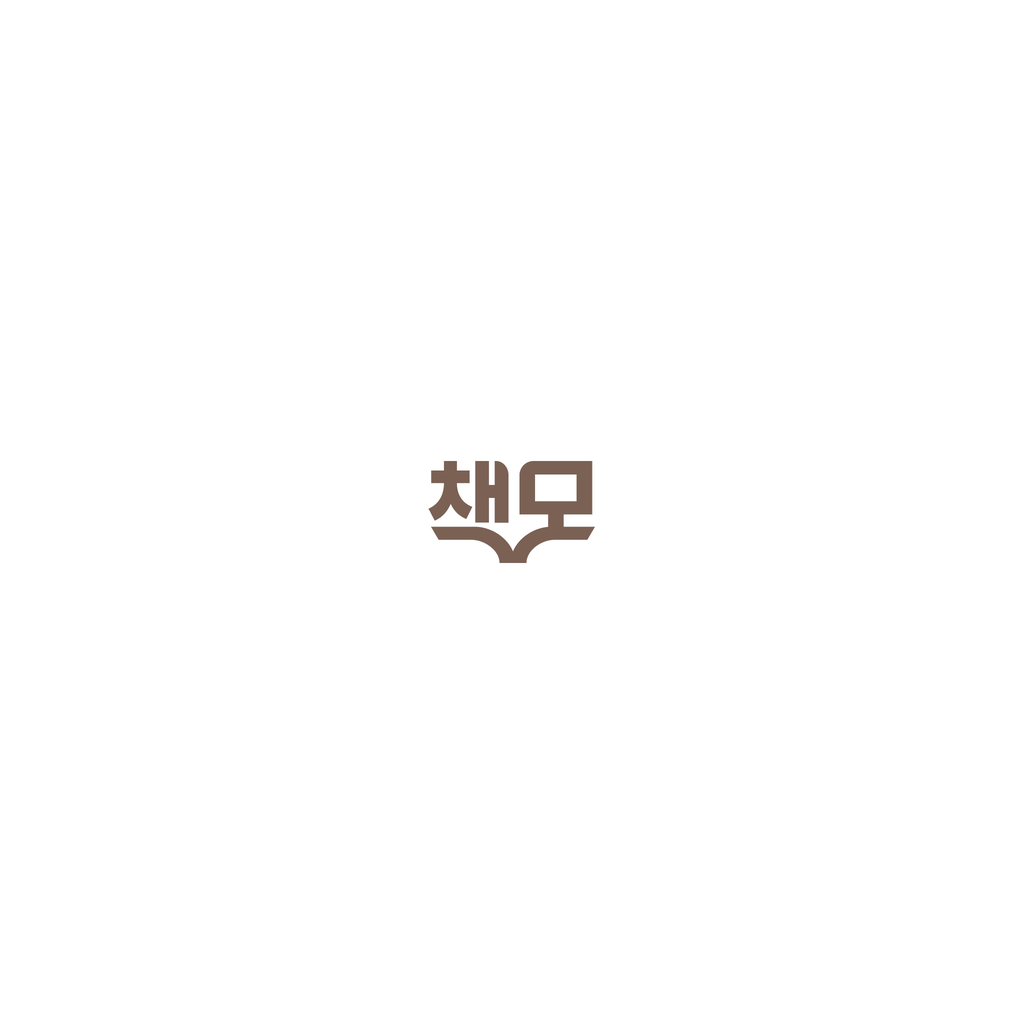
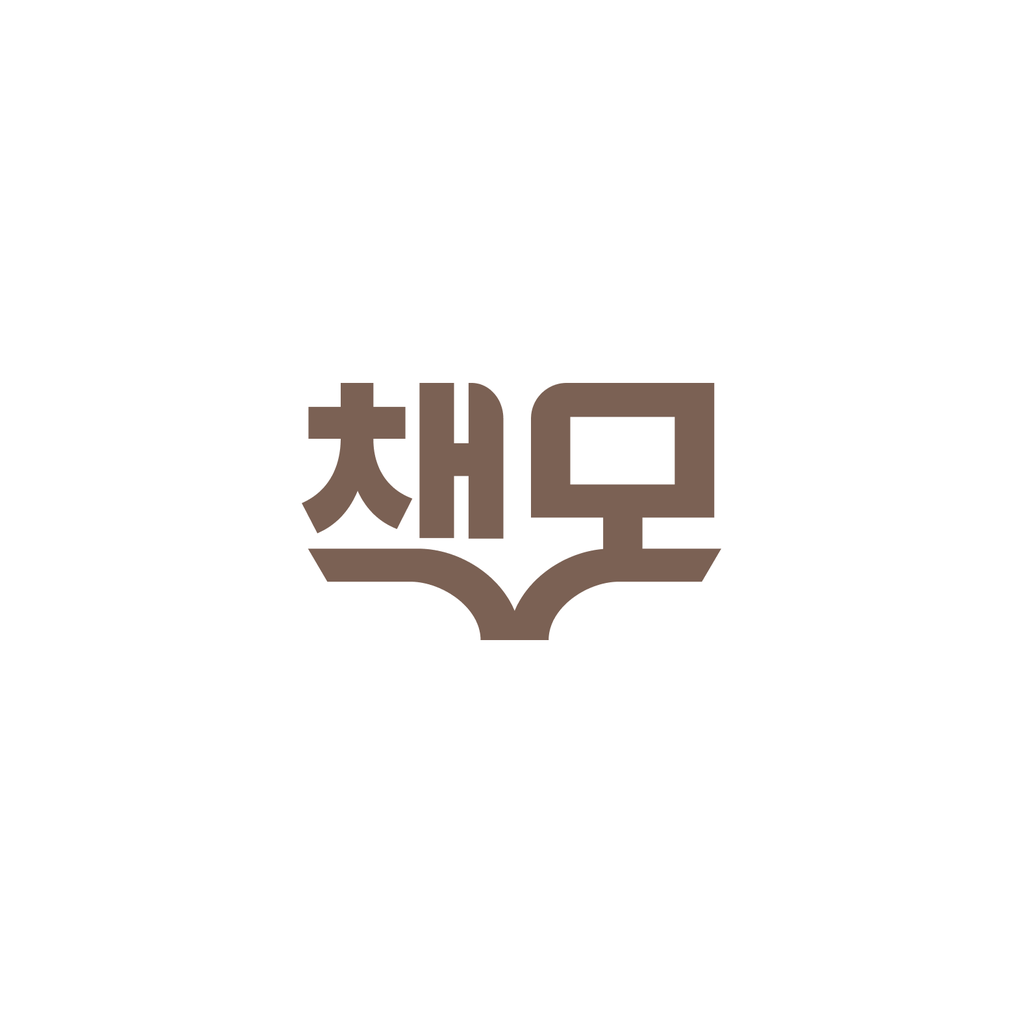
fix: Android 앱 아이콘 로고 크기 조정 (65%)
adaptive icon safe zone 기준 65%로 최종 확정

Changed region(s): [[0.2812, 0.375, 0.7188, 0.625]]

diff --git a/docs/agent/todo.md b/docs/agent/todo.md
@@ -46,7 +46,7 @@ TODO 수정 시 아래 규칙만 지킨다.
 | ✅ | **RN** | **아이콘 경로 중앙화(icon map) + 화살표 정리** | `src/constants/iconMap.ts` 신규 생성. RN 내 SVG 경로 하드코딩을 `iconMap` 단일 소스로 통합(AppHeader/AuthFlow/MyPage/Story/Meeting/BottomTabs/BookStoryCard/UserProfile/DefaultProfileAvatar/BookFlipLoadingScreen). 미사용 화살표 SVG 9개 삭제, RN 화살표는 MaterialIcons 사용으로 유지. | 2026-05-07 | 2026-05-07 |
 | ✅ | **RN** | **글씨 크기 통일 확인** | `fontSize`/`lineHeight`/`letterSpacing` 하드코딩 제거 완료(0건). `typography` 토큰 승격(15/16 포함), 재발 방지 스크립트(`npm run check:typography`) 적용 완료. | - | - |
 | ✅ | **RN** | **로딩 화면 전수 점검 문서화** | `../documents/(done)loading-screen.md` 작성 완료. `BookFlipLoadingScreen` 사용처, 인라인 로딩 문구, 버튼 상태형 로딩, `RefreshControl` 위치를 전수 정리. | - | - |
-| 🧪 | **Android** | **앱 아이콘 로고 크기 조정** | Android adaptive icon 원형 마스크에서 로고가 잘리는 문제로 55% 축소 적용. 실기기/에뮬레이터에서 시각적으로 적절한지 확인 필요. 추가 조정 시 Python 스크립트로 재처리. | 2026-05-23 | 2026-05-23 |
+| ✅ | **Android** | **앱 아이콘 로고 크기 조정** | iOS/Android 아이콘 파일 분리 (checkmo-app-icon-ios.png, checkmo-app-icon-android.png). Android adaptive icon safe zone 대응, 로고 65% 축소 적용 완료. 에뮬레이터 확인 완료. | 2026-05-23 | 2026-05-24 |
 | ✅ | **RN** | **로딩 UX 통일/안정화** | (1) 문구 표기: `동사 + 중...` 공백+말줄임표 통일 완료. (2) 부팅 로더: 1500ms 고정 타이머 → `AuthGate.isReady` 이벤트 기반 전환 완료. (3) 인라인 피드백: 텍스트 방식으로 통일, 스피너 없음 정책 확정. (4) `RefreshControl`: 시스템 기본 색상 사용으로 확정. `../documents/(done)loading-screen.md` 최신화 완료. | - | - |
 
 ---

diff --git a/docs/agent/agent-log.md b/docs/agent/agent-log.md
@@ -2298,3 +2298,10 @@ export const interactionOpacity = {
 - Android/iOS 아이콘 파일 분리 (checkmo-app-icon-ios.png, checkmo-app-icon-android.png)
 - app.json Android foregroundImage를 android 전용 파일로 분리
 - Android 아이콘 로고 50% 축소 (adaptive icon safe zone 대응)
+
+---
+
+# 2026-05-24 17:49:41 KST
+
+- Android 앱 아이콘 로고 크기 최종 확정 (65%, adaptive icon safe zone 대응)
+- todo.md 아이콘 항목 ✅ 완료 처리
